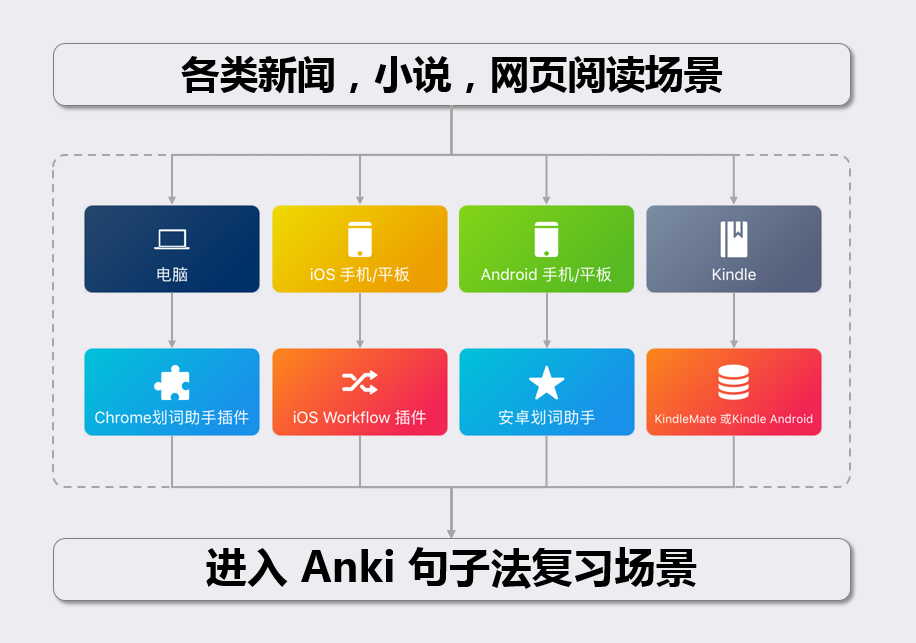
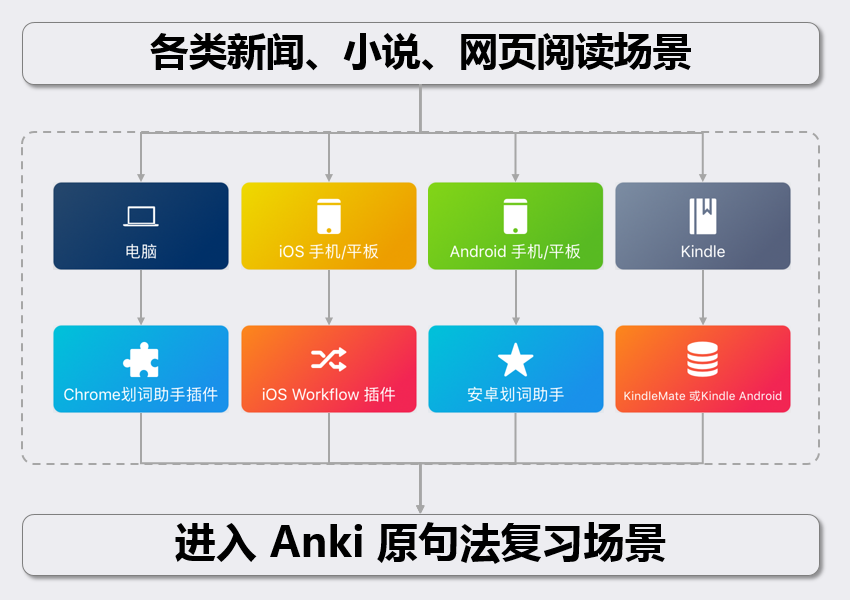
Site updated: 2017-03-19 20:24:46

Changed region(s): [[0.0306, 0.03, 0.9788, 0.99], [0.0306, 0.84, 0.0612, 0.87]]

diff --git a/20170319/the-new-way-of-vocabulary-world/index.html b/20170319/the-new-way-of-vocabulary-world/index.html
@@ -96,20 +96,14 @@
 什么是映射法呢？不管你是拿一个四级六级GRE的词表来，还是有各种语音，例句，图片，乃至视频辅记手段的卡片，都是看英文，背中文意思。一个单词一个意思，或者几个意思的这么对应。对的上就算背出了，对不上就反复看，直到下">
 <meta property="og:image" content="https://ninja33.github.io/20170319/the-new-way-of-vocabulary-world/sentence_vocab.png">
 <meta property="og:image" content="https://ninja33.github.io/20170319/the-new-way-of-vocabulary-world/anki_helper_pc_01.png">
-<meta property="og:image" content="https://ninja33.github.io/20170319/the-new-way-of-vocabulary-world/anki_helper_pc_02.png">
-<meta property="og:image" content="https://ninja33.github.io/20170319/the-new-way-of-vocabulary-world/anki_helper_pc_03.png">
-<meta property="og:image" content="https://ninja33.github.io/20170319/the-new-way-of-vocabulary-world/anki_help_iphone_04.png">
-<meta property="og:image" content="https://ninja33.github.io/20170319/the-new-way-of-vocabulary-world/anki_help_iphone_05.png">
-<meta property="og:image" content="https://ninja33.github.io/20170319/the-new-way-of-vocabulary-world/anki_helper_android_01.png">
-<meta property="og:image" content="https://ninja33.github.io/20170319/the-new-way-of-vocabulary-world/anki_helper_android_02.png">
-<meta property="og:image" content="https://ninja33.github.io/20170319/the-new-way-of-vocabulary-world/anki_helper_android_03.png">
+<meta property="og:image" content="https://ninja33.github.io/20170319/the-new-way-of-vocabulary-world/pc_02.png">
+<meta property="og:image" content="https://ninja33.github.io/20170319/the-new-way-of-vocabulary-world/iphone_02.png">
+<meta property="og:image" content="https://ninja33.github.io/20170319/the-new-way-of-vocabulary-world/android_01.png">
 <meta property="og:image" content="https://ninja33.github.io/20170319/the-new-way-of-vocabulary-world/anki_help_iphone_01.png">
-<meta property="og:image" content="https://ninja33.github.io/20170319/the-new-way-of-vocabulary-world/anki_helper_pc_04.png">
-<meta property="og:image" content="https://ninja33.github.io/20170319/the-new-way-of-vocabulary-world/anki_helper_pc_05.png">
-<meta property="og:image" content="https://ninja33.github.io/20170319/the-new-way-of-vocabulary-world/anki_help_iphone_02.png">
-<meta property="og:image" content="https://ninja33.github.io/20170319/the-new-way-of-vocabulary-world/anki_help_iphone_03.png">
+<meta property="og:image" content="https://ninja33.github.io/20170319/the-new-way-of-vocabulary-world/pc_01.png">
+<meta property="og:image" content="https://ninja33.github.io/20170319/the-new-way-of-vocabulary-world/iphone_01.png">
 <meta property="og:image" content="https://ninja33.github.io/20170319/the-new-way-of-vocabulary-world/anki-excel-tool-002.jpg">
-<meta property="og:updated_time" content="2017-03-19T09:52:18.108Z">
+<meta property="og:updated_time" content="2017-03-19T12:23:50.344Z">
 <meta name="twitter:card" content="summary">
 <meta name="twitter:title" content="我不是针对谁，我是说在座各位...">
 <meta name="twitter:description" content="…背单词的方法都是错误的。
@@ -385,26 +379,25 @@
 <ul>
 <li>电脑端：</li>
 </ul>
-<p>正面<br><img src="/20170319/the-new-way-of-vocabulary-world/anki_helper_pc_02.png" alt="anki_helper_pc_02.png" title=""><br>反面<br><img src="/20170319/the-new-way-of-vocabulary-world/anki_helper_pc_03.png" alt="anki_helper_pc_03.png" title=""></p>
+<p>正面/反面<br><img src="/20170319/the-new-way-of-vocabulary-world/pc_02.png" alt="pc_02.png" title=""></p>
 <ul>
-<li>手机端：</li>
+<li>手机端：<br>正面/反面<img src="/20170319/the-new-way-of-vocabulary-world/iphone_02.png" alt="iphone_02.png" title="">
+</li>
 </ul>
-<p>正面<br><img src="/20170319/the-new-way-of-vocabulary-world/anki_help_iphone_04.png" alt="anki_help_iphone_04.png" title=""><br>反面<br><img src="/20170319/the-new-way-of-vocabulary-world/anki_help_iphone_05.png" alt="anki_help_iphone_05.png" title=""></p>
 <h4 id="在安卓手机端阅读文章。"><a href="#在安卓手机端阅读文章。" class="headerlink" title="在安卓手机端阅读文章。"></a>在安卓手机端阅读文章。</h4><p>阅读时可以选中原句，把需要记忆的单词挑出翻译后，加号一键制卡，用于事后复习。<br>具体方法详见<strong>《<a href="https://zhuanlan.zhihu.com/p/25857322" target="_blank" rel="external">安卓版的Anki划词助手</a>》</strong>。</p>
-<p>这是一个安卓手机上阅读经济学人的场景。下面分别是</p>
-<p>划词场景<br><img src="/20170319/the-new-way-of-vocabulary-world/anki_helper_android_01.png" alt="anki_helper_android_01.png" title=""><br>翻译场景<br><img src="/20170319/the-new-way-of-vocabulary-world/anki_helper_android_02.png" alt="anki_helper_android_02.png" title=""><br>复习场景<br><img src="/20170319/the-new-way-of-vocabulary-world/anki_helper_android_03.png" alt="anki_helper_android_03.png" title=""></p>
+<p>这是一个安卓手机上阅读经济学人的场景。下面分别是<br>划词/翻译/复习<br><img src="/20170319/the-new-way-of-vocabulary-world/android_01.png" alt="android_01.png" title=""></p>
 <h4 id="在iPhone手机APP里阅读文章。"><a href="#在iPhone手机APP里阅读文章。" class="headerlink" title="在iPhone手机APP里阅读文章。"></a>在iPhone手机APP里阅读文章。</h4><p>可以使用iOS workflow的自动化方式来实现一键生成制卡文件，再导入Anki。<br>具体方法详见<strong>《<a href="/20170311/iOS-workflow-dict-helper/" title="iOS workflow 划词制卡助手">iOS workflow 划词制卡助手</a>》</strong><br><em>注：iOS上的Anki和Workflow是收费软件</em></p>
 <p>这是一个iPhone手机上用BBC新闻APP阅读的场景。</p>
 <p>划词场景：<br><img src="/20170319/the-new-way-of-vocabulary-world/anki_help_iphone_01.png" alt="anki_help_iphone_01.png" title=""></p>
 <p>最后的PC端和手机端的复习界面如下：</p>
 <ul>
-<li>电脑端：</li>
+<li><p>电脑端：<br>正面/反面</p>
+<img src="/20170319/the-new-way-of-vocabulary-world/pc_01.png" alt="pc_01.png" title="">
+</li>
+<li><p>手机端：<br>正面/反面</p>
+<img src="/20170319/the-new-way-of-vocabulary-world/iphone_01.png" alt="iphone_01.png" title="">
+</li>
 </ul>
-<p>正面<br><img src="/20170319/the-new-way-of-vocabulary-world/anki_helper_pc_04.png" alt="anki_helper_pc_04.png" title=""><br>反面<br><img src="/20170319/the-new-way-of-vocabulary-world/anki_helper_pc_05.png" alt="anki_helper_pc_05.png" title=""></p>
-<ul>
-<li>手机端：</li>
-</ul>
-<p>正面<br><img src="/20170319/the-new-way-of-vocabulary-world/anki_help_iphone_02.png" alt="anki_help_iphone_02.png" title=""><br>反面<br><img src="/20170319/the-new-way-of-vocabulary-world/anki_help_iphone_03.png" alt="anki_help_iphone_03.png" title=""></p>
 <h4 id="在Kindle阅读各类小说"><a href="#在Kindle阅读各类小说" class="headerlink" title="在Kindle阅读各类小说"></a>在Kindle阅读各类小说</h4><p>可以使用kindle自带生词本功能+KindleMate导出生词本，而这个生词本本身是带了原文例句的。<br>但事实上Kindle上已经可以刷自定义安卓客户端了。如果kindle上刷了安卓系统，那么就可以很方便的使用上述第二种方式，用安卓划词助手来实现制卡。<br>具体KindleMate的使用方法，详见<strong>《<a href="http://kmate.me/cn/" target="_blank" rel="external">KM官网</a>》</strong>，这里不再累述。</p>
 <p>最后KM导出的生词本，不管是文本格式，还是Excel格式，都可以再进一步使用Excel版本的制卡助手来生成Anki制卡文件导入，详见<strong>《<a href="/20160802/anki-excel-tool/" title="Anki Excel 批量制卡工具(含视频教程)">Anki Excel 批量制卡工具(含视频教程)</a>》</strong><br><img src="/20170319/the-new-way-of-vocabulary-world/anki-excel-tool-002.jpg" alt="anki-excel-tool-002.jpg" title=""></p>
 <h4 id="写在最后"><a href="#写在最后" class="headerlink" title="写在最后"></a>写在最后</h4><p>洋洋洒洒写了这么一篇，就是想告诉大家，这种以IR阅读为基础的原句法背单词，由于学习工具的发展已经可以实现。那么现在，你可以读5本书，随手记下500个书中的原句，再以这些原句去带动你单词的学习，其单词理解的透彻程度，相对于以前单纯的没感情的词表，是一种大大的提高。希望大家能通过这种方式，更透彻的提高自己的词汇量。还能用对词群而不是对孤立单词的理解，来进一步提高自己的听力能力。</p>

diff --git a/index.html b/index.html
@@ -369,26 +369,25 @@
 <ul>
 <li>电脑端：</li>
 </ul>
-<p>正面<br><img src="/20170319/the-new-way-of-vocabulary-world/anki_helper_pc_02.png" alt="anki_helper_pc_02.png" title=""><br>反面<br><img src="/20170319/the-new-way-of-vocabulary-world/anki_helper_pc_03.png" alt="anki_helper_pc_03.png" title=""></p>
+<p>正面/反面<br><img src="/20170319/the-new-way-of-vocabulary-world/pc_02.png" alt="pc_02.png" title=""></p>
 <ul>
-<li>手机端：</li>
+<li>手机端：<br>正面/反面<img src="/20170319/the-new-way-of-vocabulary-world/iphone_02.png" alt="iphone_02.png" title="">
+</li>
 </ul>
-<p>正面<br><img src="/20170319/the-new-way-of-vocabulary-world/anki_help_iphone_04.png" alt="anki_help_iphone_04.png" title=""><br>反面<br><img src="/20170319/the-new-way-of-vocabulary-world/anki_help_iphone_05.png" alt="anki_help_iphone_05.png" title=""></p>
 <h4 id="在安卓手机端阅读文章。"><a href="#在安卓手机端阅读文章。" class="headerlink" title="在安卓手机端阅读文章。"></a>在安卓手机端阅读文章。</h4><p>阅读时可以选中原句，把需要记忆的单词挑出翻译后，加号一键制卡，用于事后复习。<br>具体方法详见<strong>《<a href="https://zhuanlan.zhihu.com/p/25857322" target="_blank" rel="external">安卓版的Anki划词助手</a>》</strong>。</p>
-<p>这是一个安卓手机上阅读经济学人的场景。下面分别是</p>
-<p>划词场景<br><img src="/20170319/the-new-way-of-vocabulary-world/anki_helper_android_01.png" alt="anki_helper_android_01.png" title=""><br>翻译场景<br><img src="/20170319/the-new-way-of-vocabulary-world/anki_helper_android_02.png" alt="anki_helper_android_02.png" title=""><br>复习场景<br><img src="/20170319/the-new-way-of-vocabulary-world/anki_helper_android_03.png" alt="anki_helper_android_03.png" title=""></p>
+<p>这是一个安卓手机上阅读经济学人的场景。下面分别是<br>划词/翻译/复习<br><img src="/20170319/the-new-way-of-vocabulary-world/android_01.png" alt="android_01.png" title=""></p>
 <h4 id="在iPhone手机APP里阅读文章。"><a href="#在iPhone手机APP里阅读文章。" class="headerlink" title="在iPhone手机APP里阅读文章。"></a>在iPhone手机APP里阅读文章。</h4><p>可以使用iOS workflow的自动化方式来实现一键生成制卡文件，再导入Anki。<br>具体方法详见<strong>《<a href="/20170311/iOS-workflow-dict-helper/" title="iOS workflow 划词制卡助手">iOS workflow 划词制卡助手</a>》</strong><br><em>注：iOS上的Anki和Workflow是收费软件</em></p>
 <p>这是一个iPhone手机上用BBC新闻APP阅读的场景。</p>
 <p>划词场景：<br><img src="/20170319/the-new-way-of-vocabulary-world/anki_help_iphone_01.png" alt="anki_help_iphone_01.png" title=""></p>
 <p>最后的PC端和手机端的复习界面如下：</p>
 <ul>
-<li>电脑端：</li>
+<li><p>电脑端：<br>正面/反面</p>
+<img src="/20170319/the-new-way-of-vocabulary-world/pc_01.png" alt="pc_01.png" title="">
+</li>
+<li><p>手机端：<br>正面/反面</p>
+<img src="/20170319/the-new-way-of-vocabulary-world/iphone_01.png" alt="iphone_01.png" title="">
+</li>
 </ul>
-<p>正面<br><img src="/20170319/the-new-way-of-vocabulary-world/anki_helper_pc_04.png" alt="anki_helper_pc_04.png" title=""><br>反面<br><img src="/20170319/the-new-way-of-vocabulary-world/anki_helper_pc_05.png" alt="anki_helper_pc_05.png" title=""></p>
-<ul>
-<li>手机端：</li>
-</ul>
-<p>正面<br><img src="/20170319/the-new-way-of-vocabulary-world/anki_help_iphone_02.png" alt="anki_help_iphone_02.png" title=""><br>反面<br><img src="/20170319/the-new-way-of-vocabulary-world/anki_help_iphone_03.png" alt="anki_help_iphone_03.png" title=""></p>
 <h4 id="在Kindle阅读各类小说"><a href="#在Kindle阅读各类小说" class="headerlink" title="在Kindle阅读各类小说"></a>在Kindle阅读各类小说</h4><p>可以使用kindle自带生词本功能+KindleMate导出生词本，而这个生词本本身是带了原文例句的。<br>但事实上Kindle上已经可以刷自定义安卓客户端了。如果kindle上刷了安卓系统，那么就可以很方便的使用上述第二种方式，用安卓划词助手来实现制卡。<br>具体KindleMate的使用方法，详见<strong>《<a href="http://kmate.me/cn/" target="_blank" rel="external">KM官网</a>》</strong>，这里不再累述。</p>
 <p>最后KM导出的生词本，不管是文本格式，还是Excel格式，都可以再进一步使用Excel版本的制卡助手来生成Anki制卡文件导入，详见<strong>《<a href="/20160802/anki-excel-tool/" title="Anki Excel 批量制卡工具(含视频教程)">Anki Excel 批量制卡工具(含视频教程)</a>》</strong><br><img src="/20170319/the-new-way-of-vocabulary-world/anki-excel-tool-002.jpg" alt="anki-excel-tool-002.jpg" title=""></p>
 <h4 id="写在最后"><a href="#写在最后" class="headerlink" title="写在最后"></a>写在最后</h4><p>洋洋洒洒写了这么一篇，就是想告诉大家，这种以IR阅读为基础的原句法背单词，由于学习工具的发展已经可以实现。那么现在，你可以读5本书，随手记下500个书中的原句，再以这些原句去带动你单词的学习，其单词理解的透彻程度，相对于以前单纯的没感情的词表，是一种大大的提高。希望大家能通过这种方式，更透彻的提高自己的词汇量。还能用对词群而不是对孤立单词的理解，来进一步提高自己的听力能力。</p>

diff --git a/css/main.css b/css/main.css
@@ -1563,7 +1563,7 @@ pre .javascript .function {
   width: 4px;
   height: 4px;
   border-radius: 50%;
-  background: #cd47ff;
+  background: #6edaa3;
 }
 .links-of-blogroll {
   font-size: 13px;
